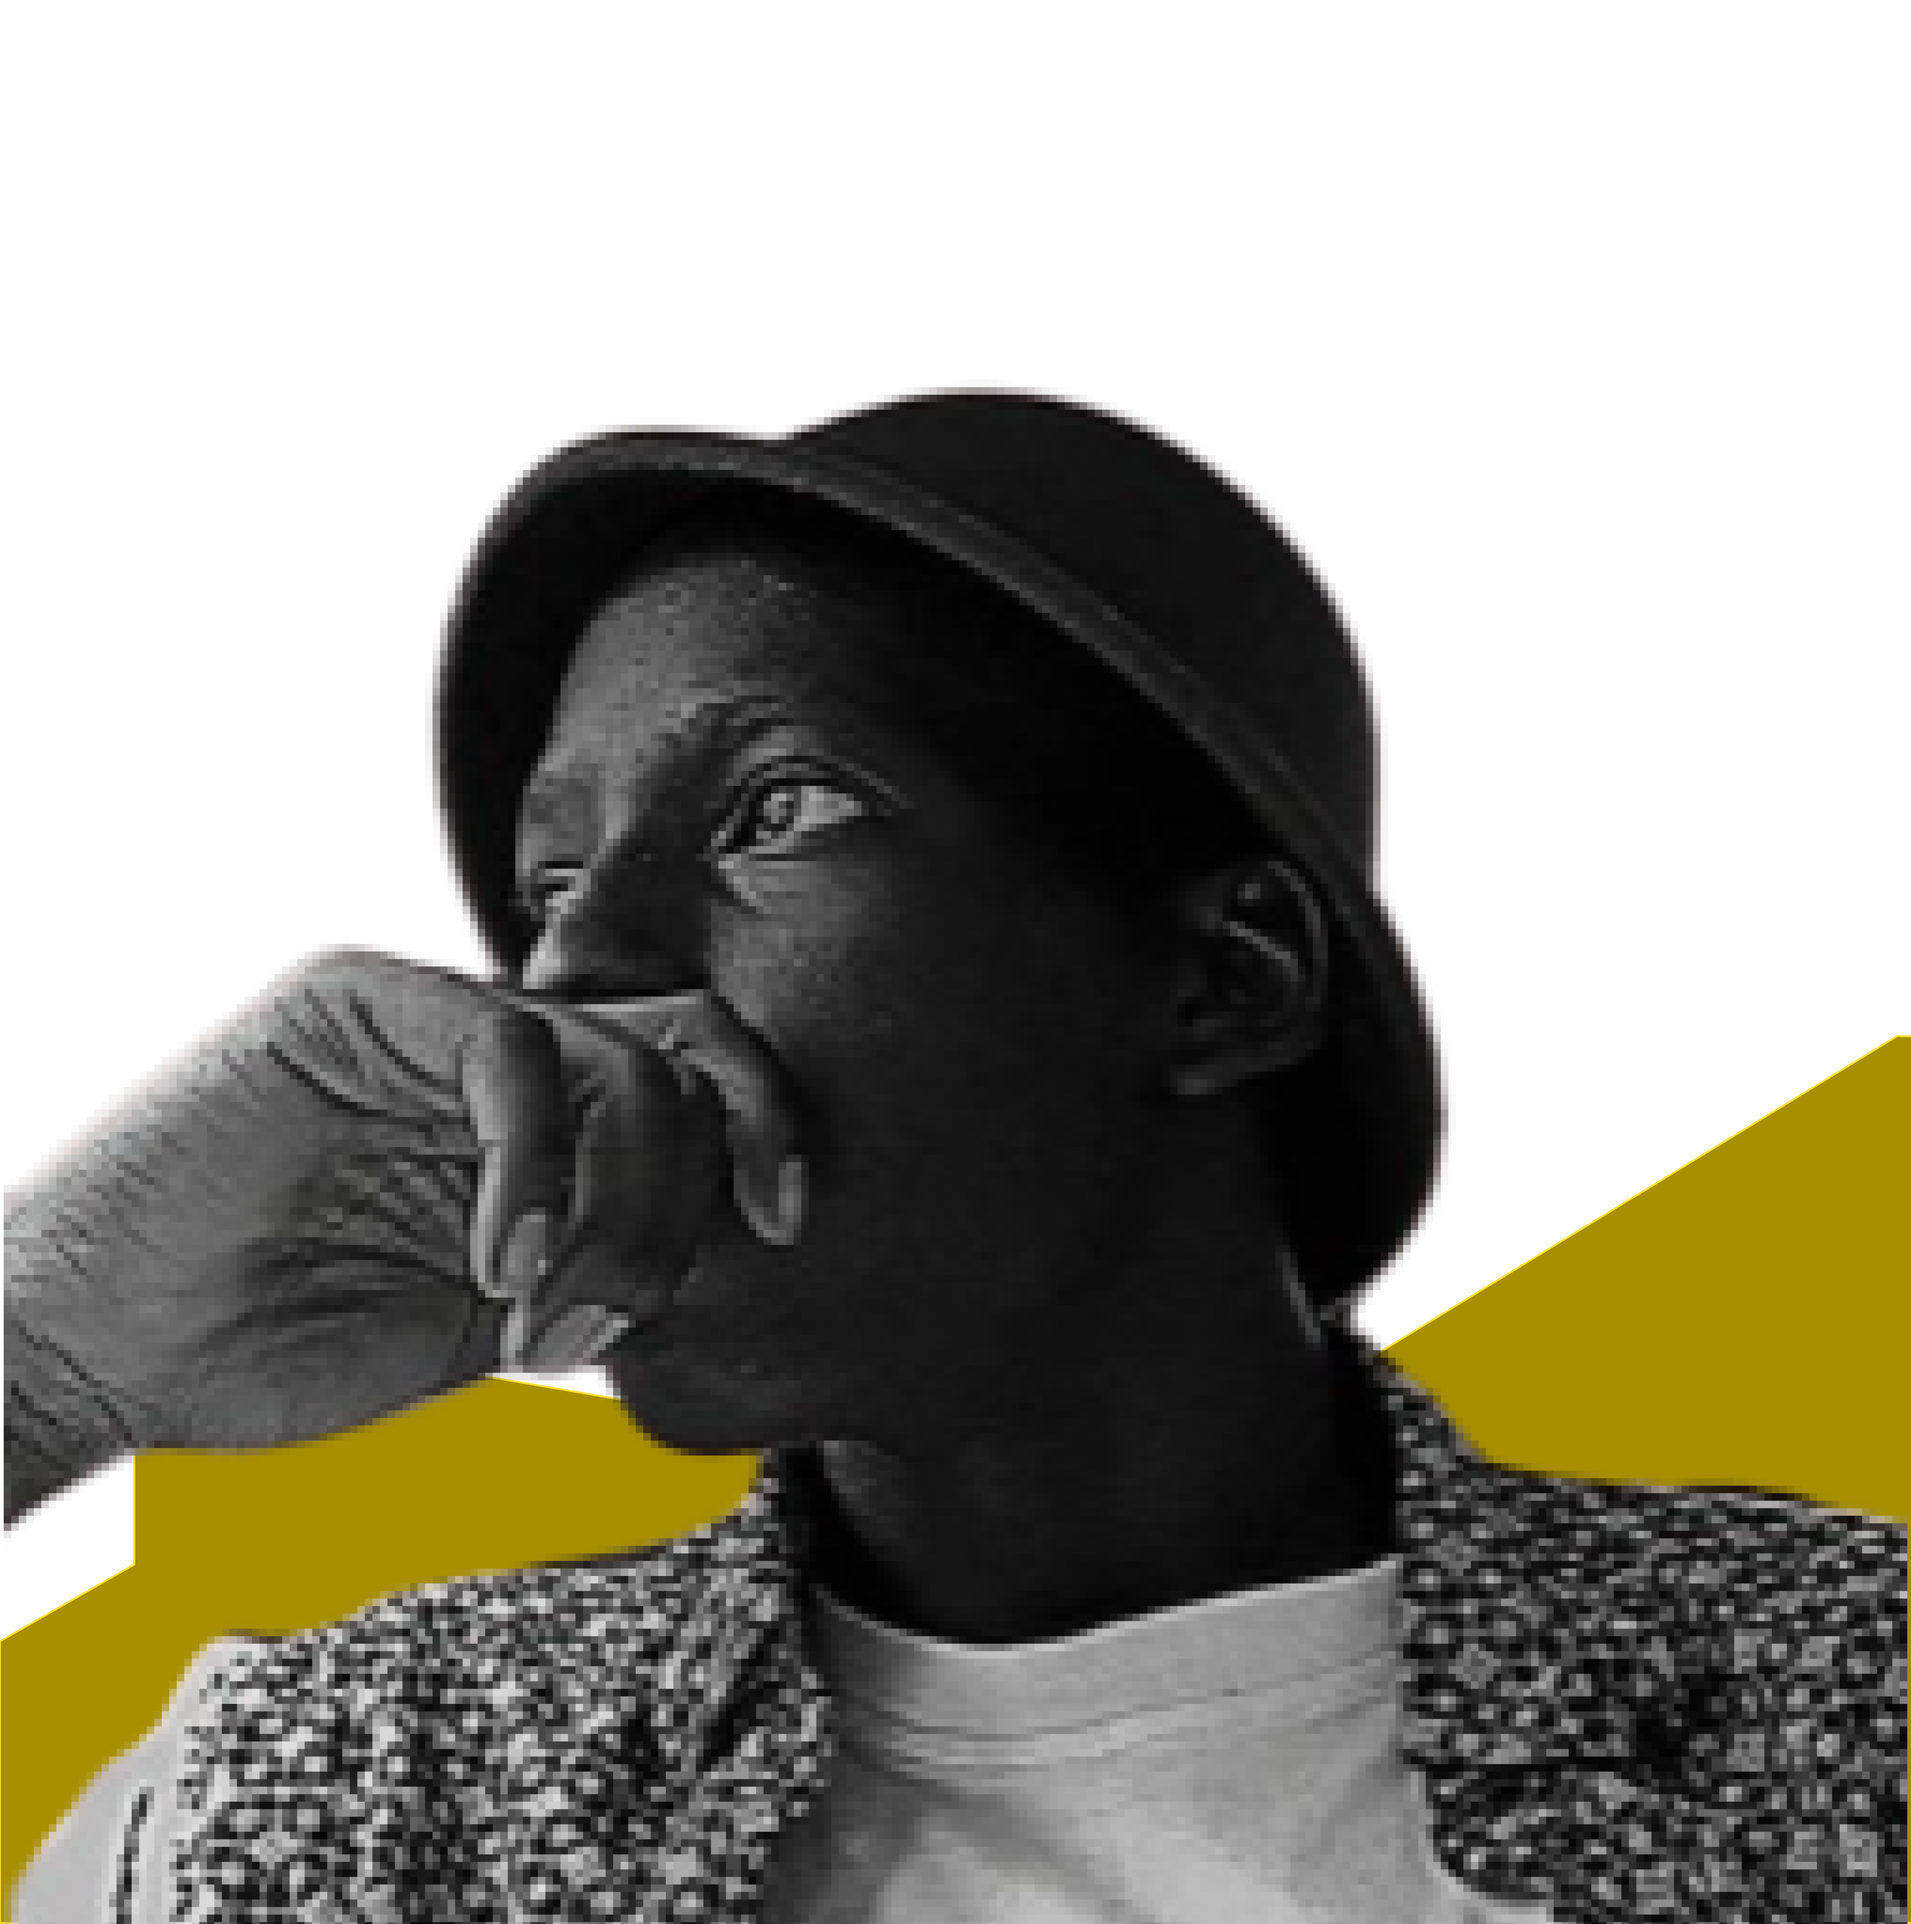
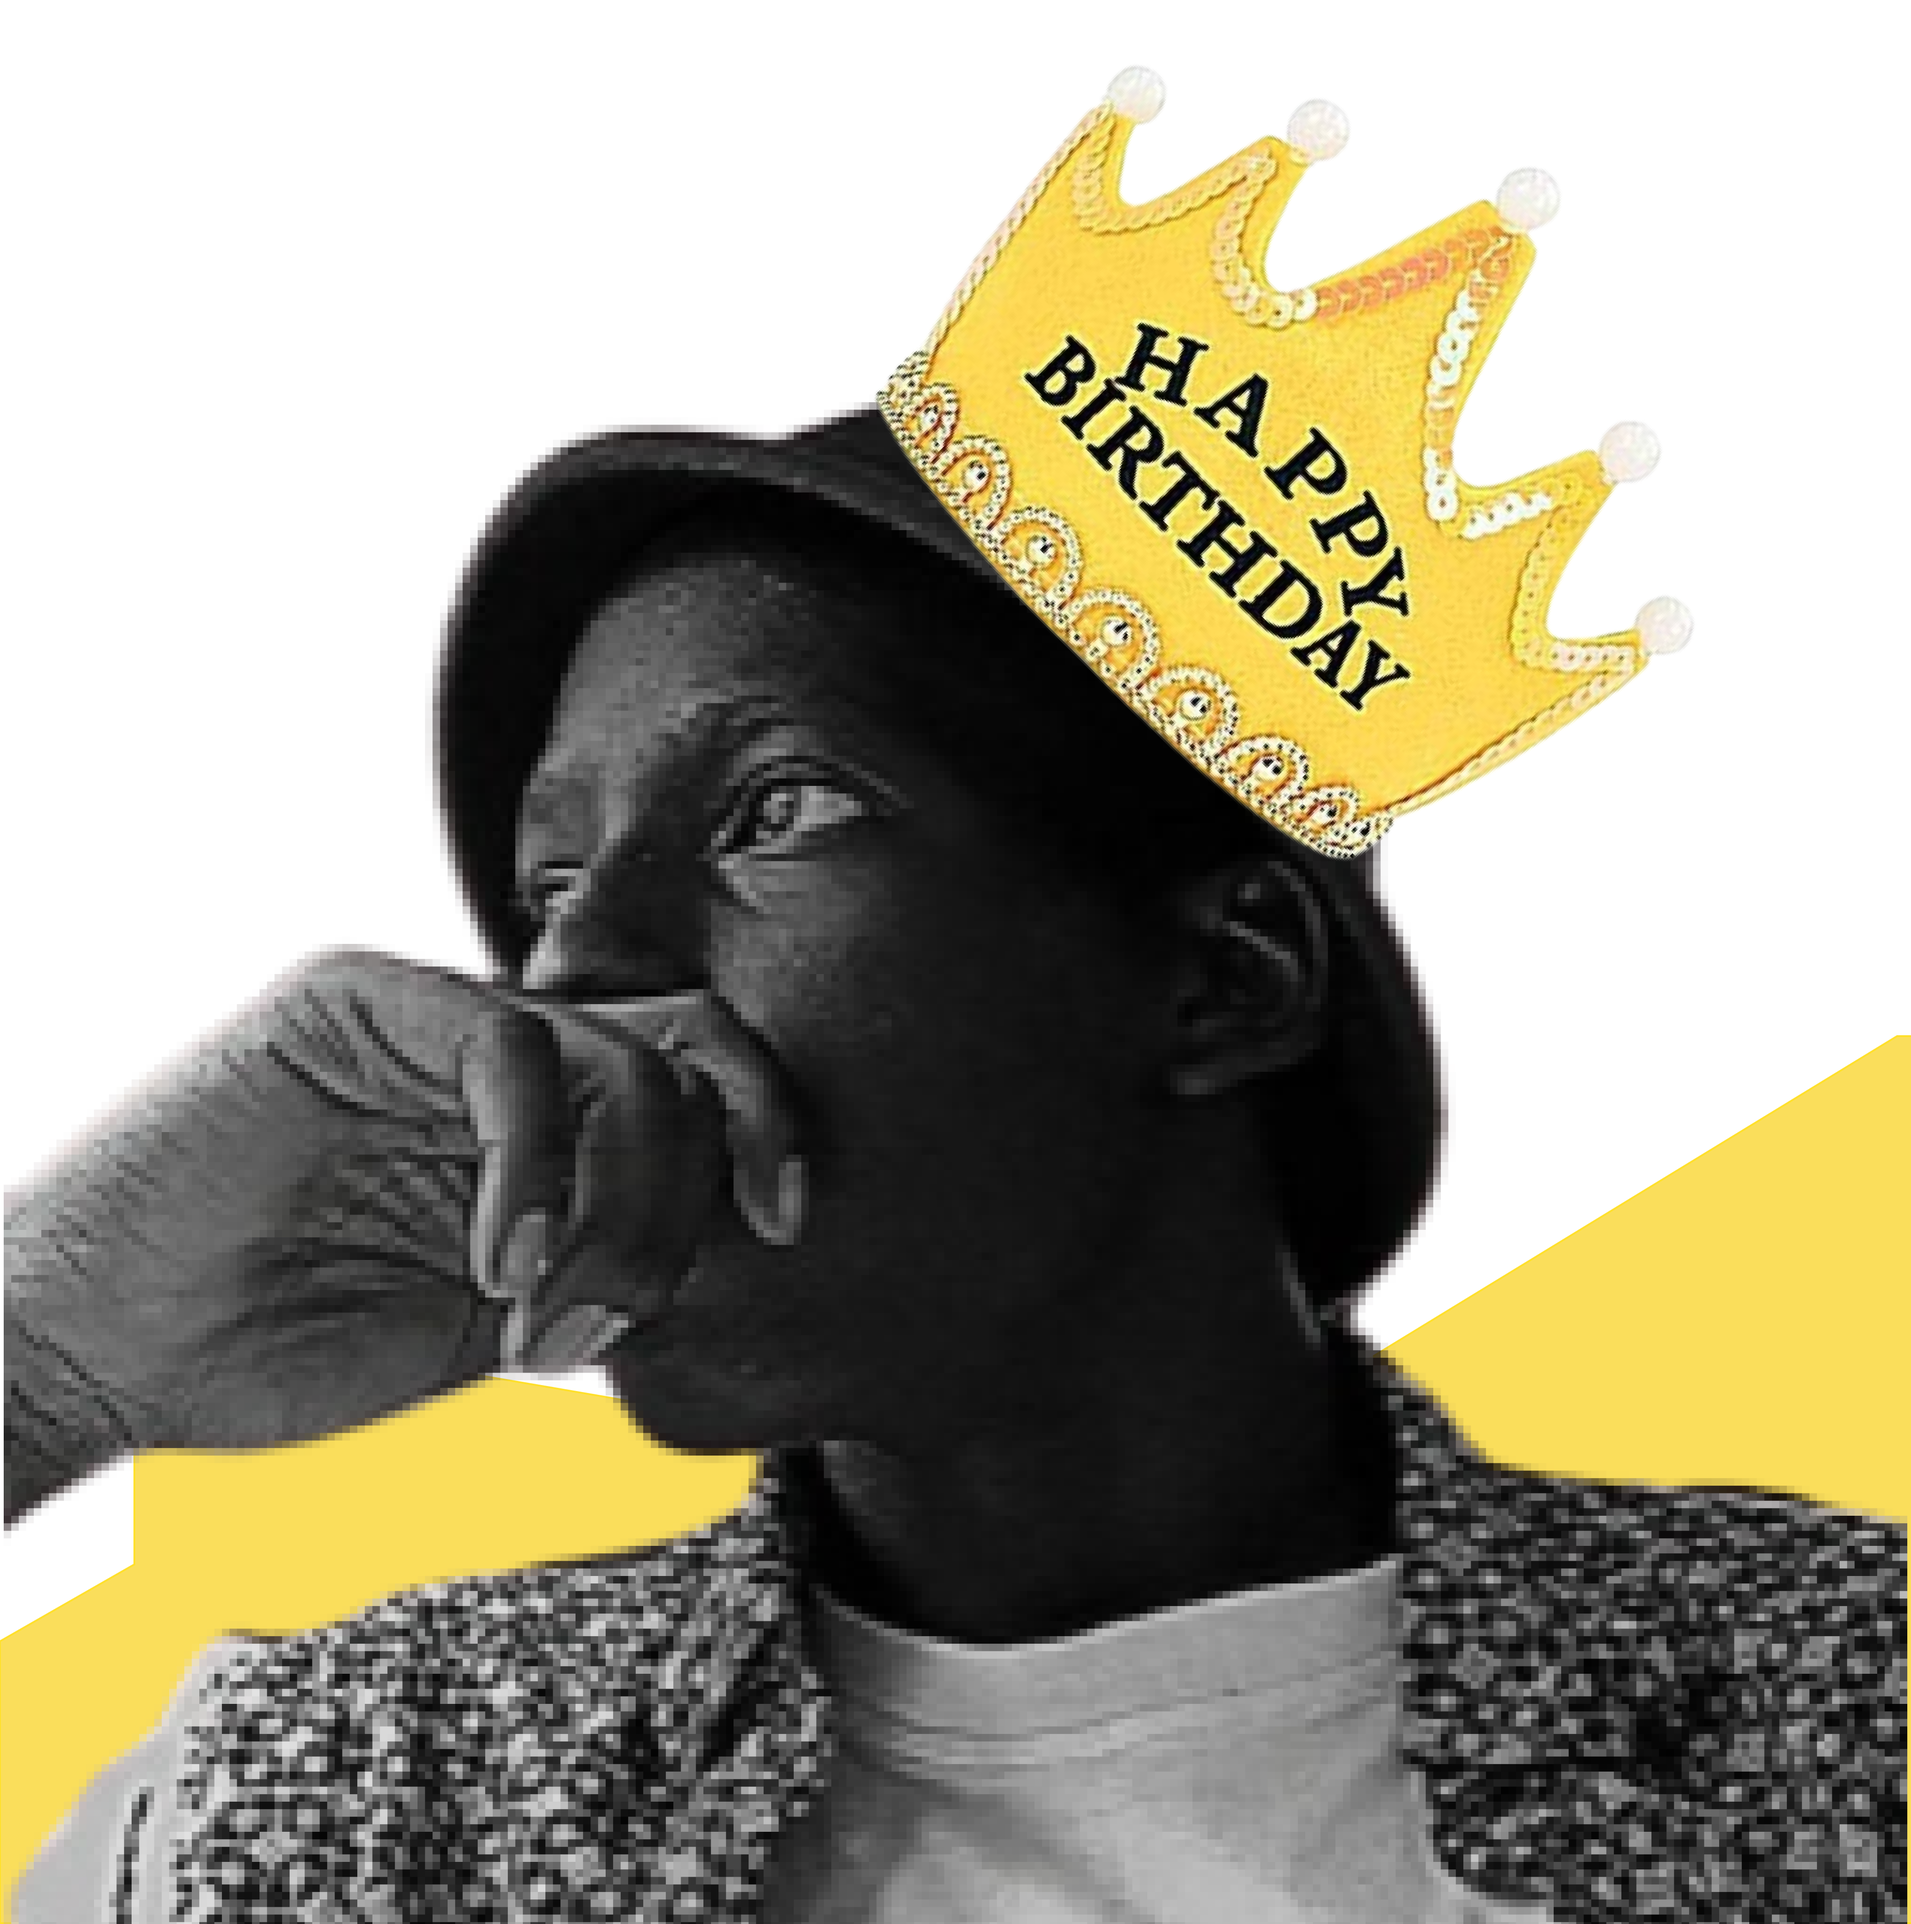
UPD: content, wishes, timeout

Changed region(s): [[0.4345, 0.0311, 0.9001, 0.466], [0.7139, 0.5282, 1.0, 1.0], [0.0, 0.7146, 0.4035, 1.0]]

diff --git a/src/App.jsx b/src/App.jsx
@@ -3,10 +3,12 @@ import Confetti from 'react-confetti'
 import { motion } from "framer-motion"
 import useWindowSize from 'react-use/lib/useWindowSize'
 import { wishes } from './assets/data/wishes'
+import { useState } from 'react'
 
 function App() {
   const { width, height } = useWindowSize()
 
+  const [visible, setVisible] = useState(false)
 
   document.addEventListener('mousemove', (e) => {
     const rotatingWishes = document.querySelectorAll('.rotating-wish');
@@ -25,7 +27,9 @@ function App() {
 
   });
 
-
+  setTimeout(()=>{
+    setVisible(true)
+  }, 33000)
 
   return (
 
@@ -43,7 +47,7 @@ function App() {
         <div className='p-20'>
           <img src="/dawg.png" alt="" className='w-[11rem]  mx-auto mb-6 mbfth' />
 
-          <h1 className='text-6xl font-bold font-["Macondo"] ' >It's MINISTER's bd 🎉🎉</h1>
+          <h1 className='text-6xl font-bold font-["Macondo"] ' >It's Ghislain's BDay 🎉🥳🎂</h1>
         </div>
       </motion.div>
       <p className='text-2xl px-[20vw]'>
@@ -99,7 +103,7 @@ function App() {
       <img src="/skate.png" alt="" className='w-36 fixed top-16 right-16 mbfth' />
       <img src="/bouquet.webp" alt="" className='w-64 fixed bottom-0 right-10 mbfth ' />
 
-      <div className="wishes grid grid-flow-row md:grid-cols-2 grid-cols-1 gap-4 px-24 mt-12 pb-12">
+      <div className={`wishes transition-all duration-200 ${visible?"grid":"hidden"} grid-flow-row md:grid-cols-2 grid-cols-1 gap-4 px-24 mt-12 pb-12`}>
         {wishes.map((wish, index) => (
           <div key={index} className={`wishDiv shadow-md bg-white/10 rounded-xl backdrop-blur-lg p-2 border border-white/10 h-auto`}>
             <div className="">

diff --git a/index.html b/index.html
@@ -4,11 +4,11 @@
     <meta charset="UTF-8" />
     <link rel="icon" type="image/svg+xml" href="/chick.svg" />
     <meta name="viewport" content="width=device-width, initial-scale=1.0" />
-    <meta property="og:image" content="/mutinho.png" />
-    <meta property="og:title" content="Mutesa's birthday" />
-    <meta property="og:description" content="It's Mutesa's birthday's " />
-    <meta property="og:see_also" content="https://github.com/regisrex/mutesa-bd" />
-    <title>Mutesa's  bd </title>
+    <meta property="og:image" content="/dawg.png" />
+    <meta property="og:title" content="Ghislain's birthday" />
+    <meta property="og:description" content="It's Ghislain's birthday's " />
+    <meta property="og:see_also" content="https://github.com/valentindush/ghislain-bd" />
+    <title>Ghislain's  bd </title>
   </head>
   <body>
     <div id="root"></div>

diff --git a/src/assets/data/wishes.js b/src/assets/data/wishes.js
@@ -1,5 +1,9 @@
 export const wishes = [
     {
+        from: "@Big.dush",
+        wish: "You've leveled up another year in this game of life, and you're still rockin' it like a boss. May your day be filled with stacks of joy, barrels of laughter, and a treasure chest of memories. Keep slayin' it, gangsta! 💰💯 #BirthdayBoss"
+    },
+    {
         from: "@Luange_Divine",
         wish: "Dear Ghislain I wish a happiest bd from the  bottom of my intestines:😂😂🤗and I want u to start this year with blessings,family and love (notify me if my little sis natakwitaho😉) any ways u know u mean a lot to us  though u have silly jokes😂(don't change) soo lots of love and hugs nyne 2,kura ujya ejuru  brahhh!! and  ohh about the intestine thing it was a joke😂😂😂"
     },

diff --git a/README.md b/README.md
@@ -1,1 +1,2 @@
-"# mutesa-bd" 
+# Ghislain's BD
+:TADA
